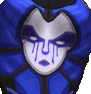
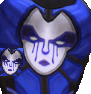
Add drawing sprites from atlas

Changed region(s): [[0.0, 0.5106, 0.2637, 0.8085]]

diff --git a/src/game.js b/src/game.js
@@ -19,6 +19,7 @@ var texture = gl.createTexture();
 gl.activeTexture(gl.TEXTURE0);
 gl.bindTexture(gl.TEXTURE_2D, texture);
 // gl.texImage2D(gl.TEXTURE_2D, 0, gl.RGBA, gl.RGBA, gl.UNSIGNED_BYTE, new Uint8Array());
+let textureResolution = { w: 4, h: 4 };
 gl.texImage2D(gl.TEXTURE_2D, 0, gl.RGBA, 4, 4, 0, gl.RGBA, gl.UNSIGNED_BYTE, new Uint8Array([
 	0, 0, 255, 255, 255, 255, 255, 255,
 	255, 0, 255, 255, 255, 128, 0, 255,
@@ -38,11 +39,14 @@ image.onload = function () {
 	gl.bindTexture(gl.TEXTURE_2D, texture);
 	gl.pixelStorei(gl.UNPACK_FLIP_Y_WEBGL, true);
 	gl.texImage2D(gl.TEXTURE_2D, 0, gl.RGBA, gl.RGBA, gl.UNSIGNED_BYTE, image);
+	textureResolution = { w: image.naturalWidth, h: image.naturalHeight };
 }
 image.src = "./atlas.png";
 
 let sprites = {
-	"face": { x: 0, y: 0, b: 128, r: 128 }
+	"big": { x: 18, y: 17, b: 80, r: 76 },
+	"face": { x: 0, y: 18, b: 45, r: 22 },
+	"mini": { x: 0, y: 0, b: 16, r: 16 }
 };
 
 let vertices = new Float32Array(MAX_BUFFER_SIZE);
@@ -78,20 +82,25 @@ function loadShader(name, type, source) {
 }
 
 let bufferSize = 0;
-function drawQuad(x, y, z, w, h) {
+function drawQuad(x, y, z, sprite) {
 	if (bufferSize == MAX_BUFFER_SIZE) drawBatch();
+	let uv = sprites[sprite] ?? { x: 0, y: 0, r: 16, b: 16 };
+	let u0 = uv.x / textureResolution.w;
+	let u1 = uv.r / textureResolution.w;
+	let v0 = uv.y / textureResolution.h;
+	let v1 = uv.b / textureResolution.h;
+	uvs[bufferSize + 0] = u0;
+	uvs[bufferSize + 1] = v0;
+	uvs[bufferSize + 2] = u0;
+	uvs[bufferSize + 3] = v1;
+	uvs[bufferSize + 4] = u1;
+	uvs[bufferSize + 5] = v1;
+	uvs[bufferSize + 6] = u1;
+	uvs[bufferSize + 7] = v0;
 	x = (x - camera.x) / z;
 	y = (y - camera.y) / z;
-	let dx = w / 2;
-	let dy = h / 2;
-	uvs[bufferSize + 0] = 0.0;
-	uvs[bufferSize + 1] = 0.0;
-	uvs[bufferSize + 2] = 0.0;
-	uvs[bufferSize + 3] = 1.0;
-	uvs[bufferSize + 4] = 1.0;
-	uvs[bufferSize + 5] = 1.0;
-	uvs[bufferSize + 6] = 1.0;
-	uvs[bufferSize + 7] = 0.0;
+	let dx = (uv.r - uv.x) / 2;
+	let dy = (uv.b - uv.y) / 2;
 	vertices[bufferSize++] = x - dx;
 	vertices[bufferSize++] = y - dy;
 	vertices[bufferSize++] = x - dx;
@@ -114,7 +123,7 @@ function drawBatch() {
 	gl.vertexAttribPointer(1, 2, gl.FLOAT, 0, 0, 0);
 	gl.enableVertexAttribArray(1);
 	gl.bindBuffer(gl.ELEMENT_ARRAY_BUFFER, glIndicesBuffer);
-	gl.uniform2f(gl.getUniformLocation(shader, "scale"), 320 / canvas.clientWidth, 320 / canvas.clientHeight);
+	gl.uniform2f(gl.getUniformLocation(shader, "scale"), 8 / canvas.clientWidth, 8 / canvas.clientHeight);
 	gl.drawElements(gl.TRIANGLES, bufferSize * 3 >> 2, gl.UNSIGNED_SHORT, 0);
 	bufferSize = 0;
 }
@@ -139,13 +148,14 @@ function onFrame(t) {
 	gl.clear(gl.COLOR_BUFFER_BIT | gl.DEPTH_BUFFER_BIT);
 
 	t /= 1000;
-	drawQuad(Math.sin(t), Math.cos(t), 6, 1, 1);
-	drawQuad(Math.sin(t), Math.cos(t), 5, 1, 1);
-	drawQuad(Math.sin(t), Math.cos(t), 4, 1, 1);
-	drawQuad(Math.sin(t), Math.cos(t), 3, 1, 1);
-	drawQuad(Math.sin(t), Math.cos(t), 2, 1, 1);
-	drawQuad(Math.sin(t), Math.cos(t), 1, 1, 1);
-	drawQuad(2, 0, 1, 1, 1);
+	drawQuad(16 * Math.sin(t) - 16, 16 * Math.cos(t), 6, "big");
+	drawQuad(16 * Math.sin(t) - 16, 16 * Math.cos(t), 5, "face");
+	drawQuad(16 * Math.sin(t) - 16, 16 * Math.cos(t), 4, "face");
+	drawQuad(16 * Math.sin(t) - 16, 16 * Math.cos(t), 3, "face");
+	drawQuad(16 * Math.sin(t) - 16, 16 * Math.cos(t), 2, "face");
+	drawQuad(16 * Math.sin(t) - 16, 16 * Math.cos(t), 1, "face");
+	drawQuad(16, 0, 1, "mini");
+	drawQuad(48, 0, 1, "OEARWOHREA02R");
 	drawBatch();
 
 	window.requestAnimationFrame(onFrame);
